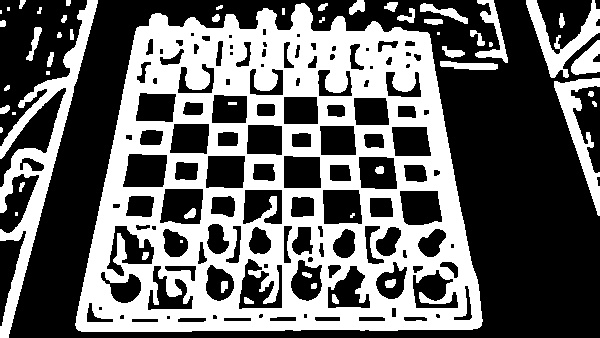
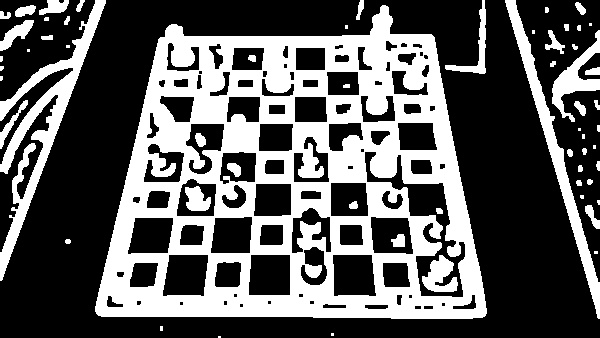
guncel

diff --git a/src/main/java/com/chessgame/ChessBoardDebug.java b/src/main/java/com/chessgame/ChessBoardDebug.java
@@ -29,8 +29,8 @@ public class ChessBoardDebug {
     }
 
     public static void main(String[] args) {
-        String inputImagePath = Paths.get("src", "main", "resources", "tests", "test3.jpg").toString();
-        String outputImagePath = Paths.get("output", "corners3.jpg").toString();
+        String inputImagePath = Paths.get("src", "main", "resources", "tests", "IMG_9649.jpg").toString();
+        String outputImagePath = Paths.get("output", "IMG9649.jpg").toString();
         String debugImagePath = Paths.get("output", "debug_all_attempts.jpg").toString();
         String squaresOutputDir = Paths.get("output", "squares").toString();
         java.io.File f = new java.io.File(inputImagePath);
